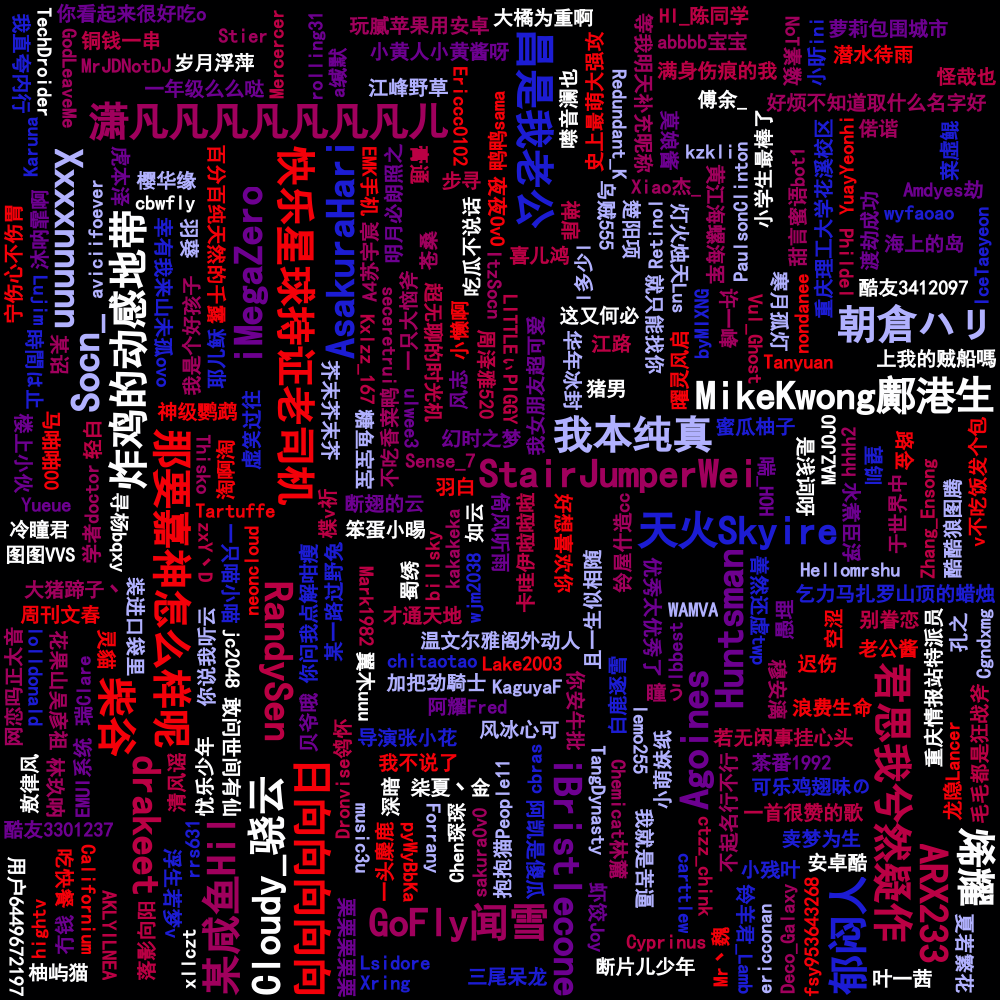
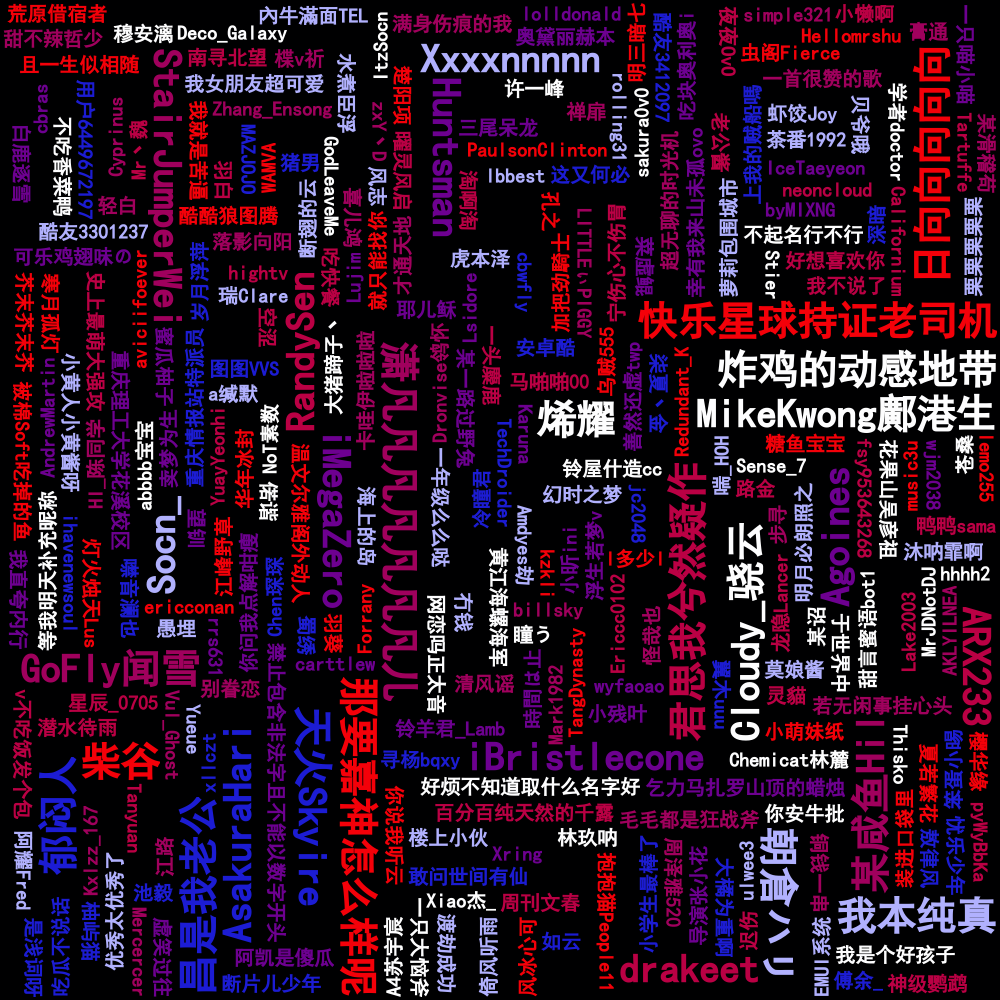
fix(FansWordCloud.java): 修复 WordCloudFilePath(userID,name,backgroundImage) 的空指针问题 docs(FansWordCloud*.png): 定时更新数据输出

diff --git a/CoolApkFans/src/FansWordCloud.java b/CoolApkFans/src/FansWordCloud.java
@@ -30,13 +30,13 @@ public class FansWordCloud {
     static Color backgroundColor = new Color(0, 0, 1);
 
 
-    static class WordCloudFilePath {
-        int userID;
+    final static class WordCloudFilePath {
+        final int userID;
         int width;
         int height;
-        String name;
-        String file;
-        String path;
+        final String name;
+        final String file;
+        final String path;
         ArrayList<Data> fansDataList;
 
         public WordCloudFilePath(int userID, int width, int height, String name) {
@@ -45,23 +45,42 @@ public class FansWordCloud {
             this.height = height;
             this.name = name;
 
-            ArrayList<Data> fansDataList = runOnGetOldFansData(userID);
-            if (fansDataList == null) {
-                fansDataList = runOnGetNewFansData(userID);
-            }
+            fansDataList = getFansDataList();
+
             file = fansDataList.get(0).getFuid() + "-" + fansDataList.get(0).getFusername()
                     + "-" + width + "x" + height
                     + "-FansWordCloud" + name + ".png";
             path = "./pic/" + file;
         }
 
-
         public WordCloudFilePath(int userID, String name, String backgroundImage) {
             int[] WH = getImageWidthHeight(backgroundImage);// 获取图片的宽高
-            new WordCloudFilePath(userID,WH[0], WH[1], name);
+            this.userID = userID;
+            this.width = WH[0];
+            this.height = WH[1];
+            this.name = name;
+
+            fansDataList = getFansDataList();
+
+            file = fansDataList.get(0).getFuid() + "-" + fansDataList.get(0).getFusername()
+                    + "-" + width + "x" + height
+                    + "-FansWordCloud" + name + ".png";
+            path = "./pic/" + file;
+        }
+
+        protected ArrayList<Data> getFansDataList() {
+            ArrayList<Data> fansDataList = runOnGetOldFansData(userID);
+            if (fansDataList == null) {
+                fansDataList = runOnGetNewFansData(userID);
+            }
+            return fansDataList;
         }
 
         public List<WordFrequency> getWordFrequencies() {
+            if (fansDataList == null) {
+                System.out.println("Error: in getWordFrequencies() fansDataList == null");
+                fansDataList = getFansDataList();
+            }
             return FansWordCloud.getWordFrequencies(fansDataList);
         }
 
@@ -71,18 +90,16 @@ public class FansWordCloud {
     public static WordCloudFilePath getFansWordCloudFilePathWithName(int userID, int width, int height, String name) {
         return new WordCloudFilePath(userID,width,height,name);
     }
-
     public static WordCloudFilePath getFansWordCloudFilePath(int userID, int width, int height) {
-        return getFansWordCloudFilePathWithName(userID,width,height,"");
+        return new WordCloudFilePath(userID,width,height,"");
     }
 
 
     public static WordCloudFilePath getFansWordCloudFilePathWithImage(int userID, int width, int height) {
-        return getFansWordCloudFilePathWithName(userID,width,height,"WithImage");
+        return new WordCloudFilePath(userID,width,height,"WithImage");
     }
     public static WordCloudFilePath getFansWordCloudFilePathWithImage(int userID, String backgroundImage) {
-        int[] WH = getImageWidthHeight(backgroundImage);// 获取图片的宽高
-        return getFansWordCloudFilePathWithName(userID,WH[0], WH[1], "WithImage");
+        return new WordCloudFilePath(userID,"WithImage","WithImage");
     }
 
 
@@ -98,8 +115,7 @@ public class FansWordCloud {
      */
     public static void getFansWordCloud(int userID, int width, int height) {
         WordCloudFilePath fileName = getFansWordCloudFilePath(userID,width,height);
-        getFansWordCloud(font , width, height,
-                fileName.path,fileName.getWordFrequencies());
+        getFansWordCloud(font, width, height, fileName.path, fileName.getWordFrequencies());
     }
 
     /**
@@ -140,8 +156,7 @@ public class FansWordCloud {
      *
      */
     public static void getFansWordCloudWithImage(int userID, String outputFile, String backgroundImage) {
-        getFansWordCloudWithImage("黑体", 20,
-                outputFile,"./pic/UserFace.png",getWordFrequencies(userID));
+        getFansWordCloudWithImage("黑体", 20, outputFile,backgroundImage,getWordFrequencies(userID));
     }
 
 
@@ -357,8 +372,8 @@ public class FansWordCloud {
 
 
     //序列化的代码 一个保存 一个恢复
-    private static ArrayList<api.dataclass.Data> runOnGetNewFansData(int userID) {
-        ArrayList<api.dataclass.Data> fansData = CoolApkFansApi.getFansData(userID);
+    private static ArrayList<Data> runOnGetNewFansData(int userID) {
+        ArrayList<Data> fansData = CoolApkFansApi.getFansData(userID);
         try {
             FileOutputStream fileOut = new FileOutputStream("./ser/" + userID + "-FansDataList.ser");
             ObjectOutputStream out = new ObjectOutputStream(fileOut);
@@ -372,12 +387,12 @@ public class FansWordCloud {
         return fansData;
     }
 
-    private static ArrayList<api.dataclass.Data> runOnGetOldFansData(int userID) {
-        ArrayList<api.dataclass.Data> fansData = null;
+    private static ArrayList<Data> runOnGetOldFansData(int userID) {
+        ArrayList<Data> fansData;
         try {
             FileInputStream fileIn = new FileInputStream("./ser/" + userID + "-FansDataList.ser");
             ObjectInputStream in = new ObjectInputStream(fileIn);
-            fansData = (ArrayList<api.dataclass.Data>) in.readObject();
+            fansData = (ArrayList<Data>) in.readObject();
             in.close();
             fileIn.close();
         } catch(IOException i) {

diff --git a/CoolApkFans/src/api/CoolApkFansApi.java b/CoolApkFans/src/api/CoolApkFansApi.java
@@ -122,6 +122,10 @@ public class CoolApkFansApi {
 
         userInfos = new ArrayList<Data>(fansData.getData());
 
+        if (fansData.getData().size() == 0){
+            System.out.println("Error: fansData size == 0");
+            System.out.println("RawData: " + rawJSON);
+        }
         int fans = fansData.getData().get(0).getFUserInfo().getFans();
         int pageSize = fans / 20;
         if (fans % 20 != 0) {

diff --git a/CoolApkFans/src/api/dataclass/UserInfoRootBean.java b/CoolApkFans/src/api/dataclass/UserInfoRootBean.java
@@ -10,7 +10,7 @@ import java.util.List;
  * @author bejson.com (i@bejson.com)
  * @website http://www.bejson.com/java2pojo/
  */
-public class UserInfoRootBean implements java.io.Serializable {
+public final class UserInfoRootBean implements java.io.Serializable {
 
     private List<Data> data;
     public void setData(List<Data> data) {

diff --git a/CoolApkFans/src/api/dataclass/UserInfo.java b/CoolApkFans/src/api/dataclass/UserInfo.java
@@ -9,7 +9,7 @@ package api.dataclass;
  * @author bejson.com (i@bejson.com)
  * @website http://www.bejson.com/java2pojo/
  */
-public class UserInfo implements java.io.Serializable {
+public final class UserInfo implements java.io.Serializable {
 
     private long uid;
     private String username;

diff --git a/CoolApkFans/src/api/dataclass/Data.java b/CoolApkFans/src/api/dataclass/Data.java
@@ -1,7 +1,7 @@
 package api.dataclass;
 
 // 这里才是 UserInfoRoot
-public class Data implements java.io.Serializable {
+public final class Data implements java.io.Serializable {
 
     private long uid;
     private String username;

diff --git a/CoolApkFans/src/api/dataclass/FanInfo.java b/CoolApkFans/src/api/dataclass/FanInfo.java
@@ -1,6 +1,6 @@
 package api.dataclass;
 
-public class FanInfo implements java.io.Serializable {
+public final class FanInfo implements java.io.Serializable {
     private int uid;
     private String username;
     private int fuid;

diff --git a/CoolApkFans/src/api/dataclass/FUserInfo.java b/CoolApkFans/src/api/dataclass/FUserInfo.java
@@ -1,6 +1,6 @@
 package api.dataclass;
 
-public class FUserInfo implements java.io.Serializable {
+public final class FUserInfo implements java.io.Serializable {
 
     private long uid;
     private String username;
